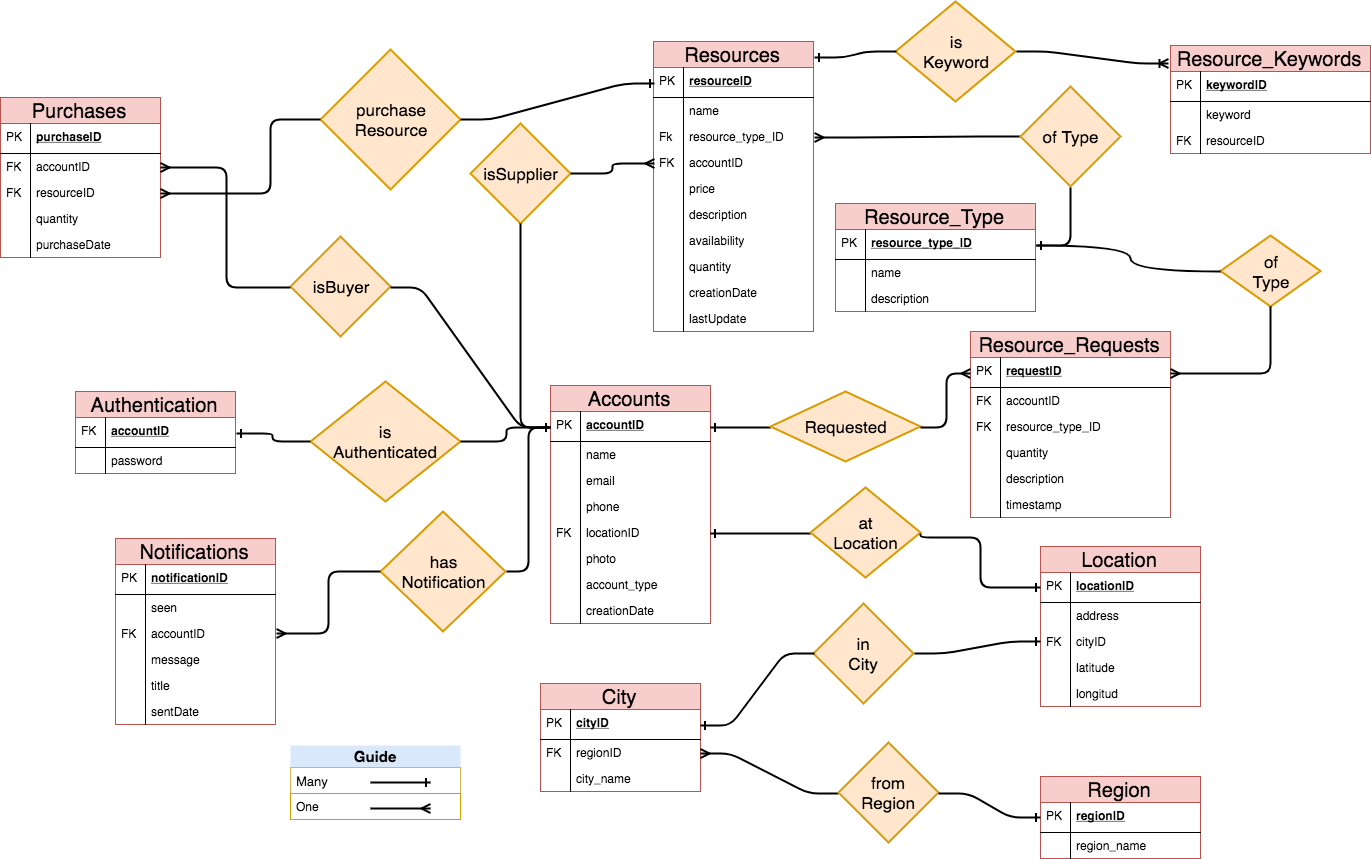
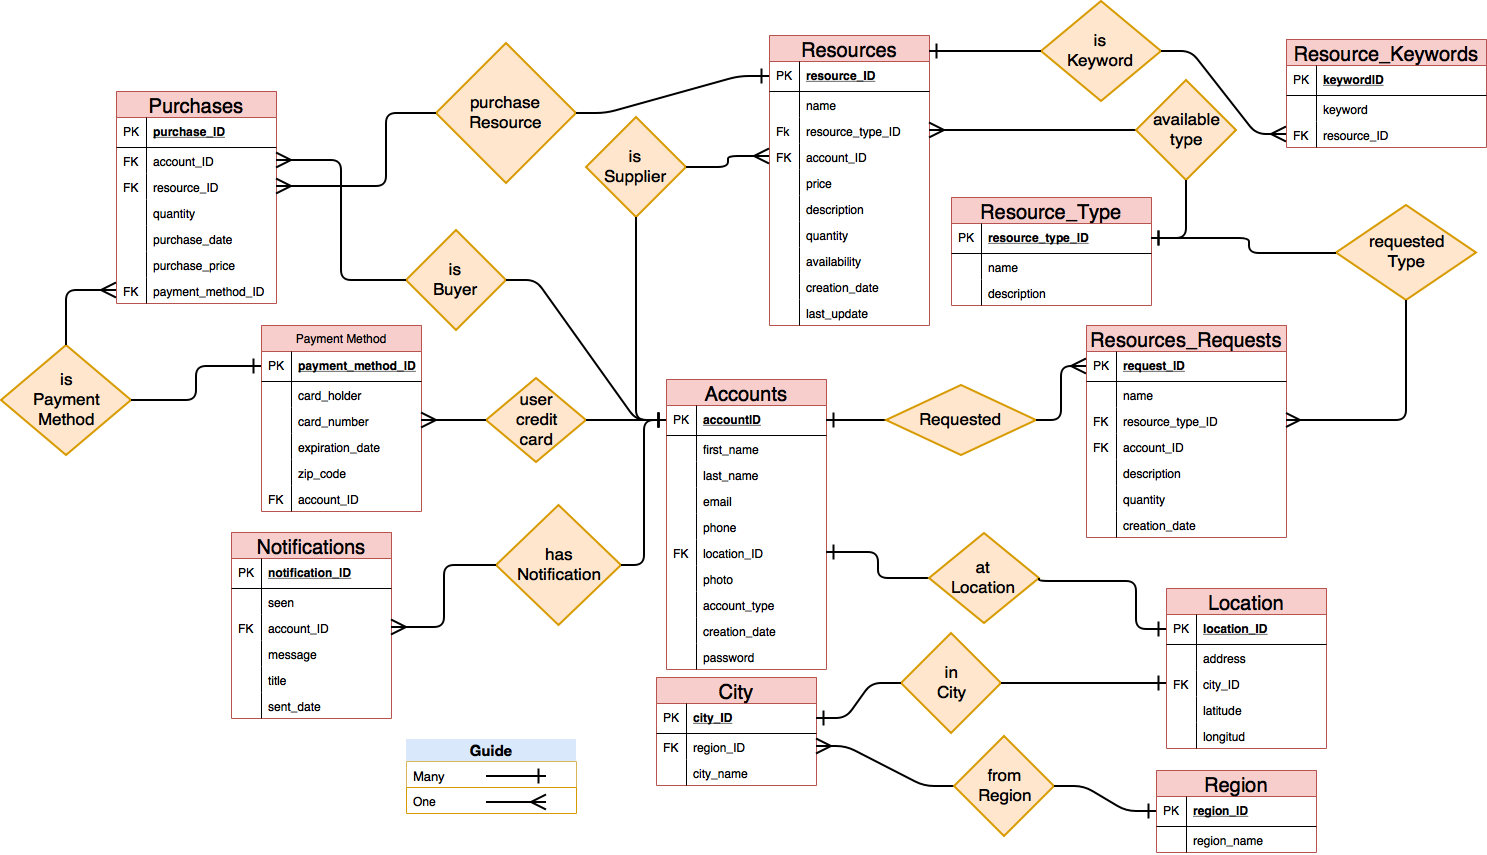
updating ERD with minor fixes and profesor recomendations such as payment method table among others

Changed region(s): [[0.0, 0.0, 1.0, 1.0], [0.3676, 0.3345, 0.3982, 0.4257], [0.8578, 0.4865, 0.8884, 0.517]]

diff --git a/dao/resourcesDAO.py b/dao/resourcesDAO.py
@@ -3,9 +3,6 @@ import psycopg2
 from flask import jsonify
 from config.dbconfig import pg_config
 
-
-
-
 class ResourceDAO:
     def __init__(self):                              
         self.conn = psycopg2.connect(database='project920', user='natalia', password='none', sslmode='disable',hostaddr='35.196.249.53')
@@ -57,7 +54,7 @@ class ResourceDAO:
         cursor.execute(query,(description,) )
         for row in cursor:
             result.append(row)        
-        return result;
+        return result
 
     def getResourcesbyDescription(self,description):
         cursor = self.conn.cursor()
@@ -72,7 +69,7 @@ class ResourceDAO:
         cursor.execute(query,(description,) )
         for row in cursor:
             result.append(row)        
-        return result;
+        return result
 
     def getResourcesbyName(self,name):
         cursor = self.conn.cursor()
@@ -87,7 +84,7 @@ class ResourceDAO:
         cursor.execute(query,(name,) )
         for row in cursor:
             result.append(row)        
-        return result;
+        return result
 
     def getResourcesbyName_Description(self,name,description):
         cursor = self.conn.cursor()
@@ -102,7 +99,7 @@ class ResourceDAO:
         cursor.execute(query,(description,name) )
         for row in cursor:
             result.append(row)        
-        return result;
+        return result
 
            
 
@@ -113,7 +110,7 @@ class ResourceDAO:
         result = []
         for row in cursor:
             result.append(row)        
-        return result;
+        return result
       
 
     def getResourcesRequestedbyName(self,name):
@@ -123,7 +120,7 @@ class ResourceDAO:
         result = []        
         for row in cursor:
             result.append(row)        
-        return result;
+        return result
 
     def getResourcesRequestedbyName_Description(self,name,description):
         cursor = self.conn.cursor()
@@ -132,7 +129,7 @@ class ResourceDAO:
         cursor.execute(query,(description,name) )
         for row in cursor:
             result.append(row)        
-        return result;
+        return result
         
 
         
@@ -182,7 +179,7 @@ class ResourceDAO:
         cursor.execute(query,(region,) )
         for row in cursor:
             result.append(row)        
-        return result;
+        return result
 
     def getResourcesbyCity(self, city):
         cursor = self.conn.cursor()
@@ -197,7 +194,7 @@ class ResourceDAO:
         cursor.execute(query,(city,) )
         for row in cursor:
             result.append(row)        
-        return result;
+        return result
 
 
     def getResourcesbyRegion_Name(self, region,name):
@@ -213,7 +210,7 @@ class ResourceDAO:
         cursor.execute(query,(region,name,) )
         for row in cursor:
             result.append(row)        
-        return result;
+        return result
 
     def getResourcesbyRegion_Description(self, region,description):
         cursor = self.conn.cursor()
@@ -228,7 +225,7 @@ class ResourceDAO:
         cursor.execute(query,(region,description,) )
         for row in cursor:
             result.append(row)        
-        return result;
+        return result
 
     def getResourcesbyCity_Name(self, city,name):
         cursor = self.conn.cursor()
@@ -243,7 +240,7 @@ class ResourceDAO:
         cursor.execute(query,(city,name,) )
         for row in cursor:
             result.append(row)        
-        return result;
+        return result
 
 
     def getResourcesbyCity_Description(self, city,description):
@@ -259,7 +256,7 @@ class ResourceDAO:
         cursor.execute(query,(region,description,) )
         for row in cursor:
             result.append(row)        
-        return result;
+        return result
     
 
       
